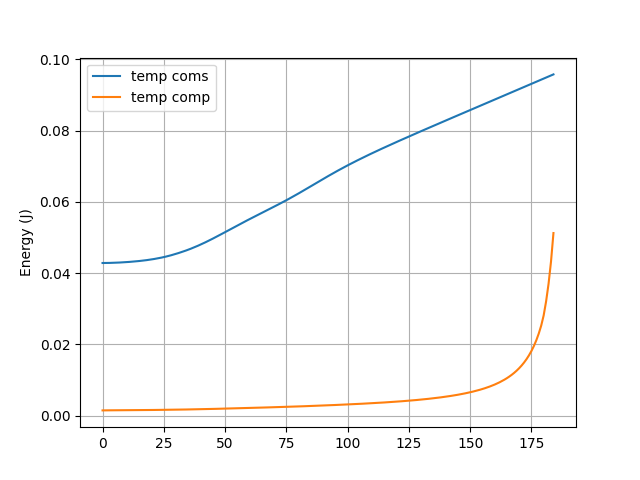
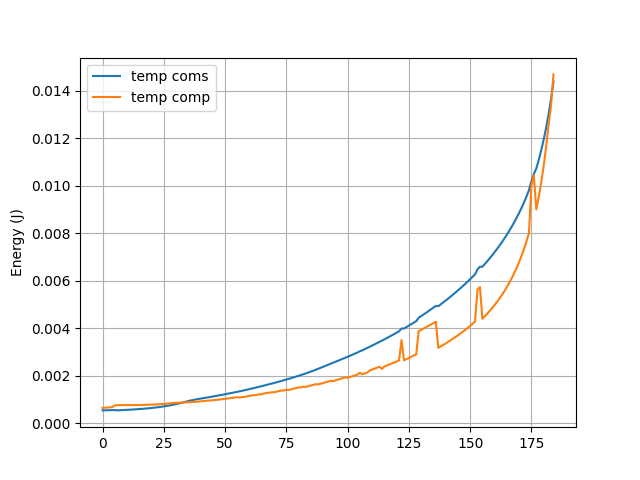
update optimize_network without log, stop condition checking

diff --git a/examples/network_optim.py b/examples/network_optim.py
@@ -143,15 +143,8 @@ class NetworkOptim:
         print(f"eta = {eta}")
 
         return eta
-
-    def initialize_feasible_solution(self): 
-        r"""
-        Method: bisection
-        Args:
-        Return: 
-            eta, T_min
-        """
-        ### Find af, bf efficient 
+    
+    def init_decisions(self): 
         # Solve optimal decision decs
         t_co_uav = self.calc_trans_time(1, power_max)
         t_co_bs = self.calc_trans_time(0, power_max)
@@ -162,11 +155,20 @@ class NetworkOptim:
 
         decs_opt = np.zeros(shape=num_users, dtype=int)
         decs_opt[idx_uav] = 1
+        
+        return decs_opt
 
-        # TODO: check delta_t 
-        # TRACELOG
-        print(f"t_co_uav = {t_co_uav}\nt_co_bs = {t_co_bs}\ndifference = {difference}\ndecs_opt = {decs_opt}")
-        # TRACELOG 
+    def initialize_feasible_solution(self): 
+        r"""
+        Method: bisection
+        Args:
+        Return: 
+            eta, T_min
+        """
+        ### Find af, bf efficient 
+        decs_opt = self.init_decisions()
+
+        # TODO: check delta_t
 
         # Solve optimal eta for current resource allocation (fixed f_max, p_max, decs)
         t_cp = self.calc_comp_time(1, freq_max)
@@ -201,10 +203,6 @@ class NetworkOptim:
             iter += 1
         
         print(f"initialize_feasible_solution eta = {eta_opt}, tau = {tau}")  
-        # LOGTRACE
-        t_total = self.calc_total_time(eta_opt, freq_max, decs_opt, power_max)
-        print(f"t_total = {t_total}")
-        ## LOGTRACE
         return tau, decs_opt
 
     def solve_freqs_powers(self, eta, decs, tau): 
@@ -240,7 +238,7 @@ class NetworkOptim:
         print(f"opt_freqs = {opt_freqs}\nopt_powers = {opt_powers}")
         return opt_freqs, opt_powers
 
-    def optimize_network(self): 
+    def optimize_network(self, tau, ground=0): 
         r""" Solve the relay-node selection and resource allocation problem
         Args: 
         Return: 
@@ -249,18 +247,14 @@ class NetworkOptim:
         # Initialize a feasible solution 
         freqs = np.ones(num_users) * freq_max
         powers = np.ones(num_users) * power_max
-        decs = np.zeros(num_users) # decs = np.random.randint(low=0, high=2, size=num_users) # random initial decisions
+        decs = self.init_decisions()
         eta = 0.01
         
         obj_prev = self.calc_total_energy(eta, freqs, decs, powers).sum()
         print(f"obj_prev = {obj_prev}")
 
         # Repeat
-        iter = 0 
-        t_min, decs = self.initialize_feasible_solution() # eta = 0.317, t_min = 66.823
-        tau = int(1.3 * t_min) # > t_min (= t_min + const) e.g t_min + t_min/10 TODO 
-        print(f"optimize_network_tau = {tau}")
-
+        iter = 0
         while 1: 
             # Tighten the bound of eta 
             eta_min, eta_max = self.find_bound_eta(freqs, decs, powers, tau)
@@ -275,35 +269,38 @@ class NetworkOptim:
                 eta = eta_min 
 
             # Solve powers p, freqs f and apply heursitic method for choosing decisions x 
-            decs = np.ones(shape=num_users, dtype=int) # check with all connecting to uav 
+            
+            # check with all connecting to uav
+            decs = np.ones(shape=num_users, dtype=int)  
             uav_freqs, uav_powers = self.solve_freqs_powers(eta, decs, tau)
             uav_ene = self.calc_total_energy(eta, uav_freqs, decs, uav_powers)
             print(f"uav_ene = {uav_ene}")
 
-            decs = np.zeros(shape=num_users, dtype=int) # check with all connecting to bs 
+            # check with all connecting to bs
+            decs = np.zeros(shape=num_users, dtype=int)
             bs_freqs, bs_powers = self.solve_freqs_powers(eta, decs, tau)
             bs_ene = self.calc_total_energy(eta, bs_freqs, decs, bs_powers)
             print(f"bs_ene = {bs_ene}")
-
+            
+            # find the better decision
             difference = uav_ene - bs_ene
             print(f"difference = {difference}")
             # https://stackoverflow.com/questions/34226400/find-the-index-of-the-k-smallest-values-of-a-numpy-array
             idx = np.argpartition(difference, max_uav)[:max_uav]
             idx_uav = idx[np.where(difference[idx] < 0)]
             
+            # update decisions 
             decs = np.zeros(num_users, dtype=int)
             decs[idx_uav] = 1 # (N, )
 
+            # update powers, freqs corresponding to the current optimal decision 
             powers = decs * uav_powers + (1 - decs) * bs_powers
             freqs = decs * uav_freqs + (1 - decs) * bs_freqs
 
-            # LOG TRACE
-            t_total = self.calc_total_time(eta, freqs, decs, powers)
-            print(f"t_total = {t_total}")
-
             # Check stop condition
             obj = self.calc_total_energy(eta, freqs, decs, powers).sum()
-            print(f"optimize_network_iter = {iter} obj = {obj}")
+            print(f"optimize_network iter = {iter} obj = {obj}")
+            
             print(f"eta = {eta}")
             print(f"decs = {decs}")
             print(f"freqs = {freqs}")
@@ -315,6 +312,33 @@ class NetworkOptim:
 
             obj_prev = obj
             iter += 1 
+        
+        # Finishing 
+        num_lrounds = v * math.log2(1/eta)
+        num_grounds = self.an / (1 - eta)
+
+        # update optimal result for class 
+        self.eta = eta 
+        self.freqs = freqs
+        self.powers = powers 
+        self.decs = decs
+        
+        # calculate time, energy consumption at the current iteration 
+        t_co = self.calc_trans_time(self.decs, self.powers).sum()
+        e_co = self.calc_trans_energy(self.decs, self.powers).sum()
+        
+        t_cp = self.calc_comp_time(num_lrounds, self.freqs).sum()   
+        e_cp = self.calc_comp_energy(num_lrounds, self.freqs).sum()
+
+        print("At round {} average t_co: {} average t_cp: {}".format(ground, t_co/num_users, t_cp/num_users))
+        print("At round {} e_co: {} e_cp: {}".format(ground, e_co, e_cp))
+        print("At round {} eta: {}".format(ground, eta))  
+        print("At round {} a_n: {}".format(ground, self.an))
+
+        # update a_n for calculating the next global iteration  
+        self.update_an(ground=ground)
+        
+        return self.an, num_lrounds, num_grounds # (i, n, a_n)
 
         # Stop 
         return (eta, freqs, decs, powers)

diff --git a/examples/optimization.py b/examples/optimization.py
@@ -7,18 +7,18 @@ class NewtonOptim:
         self.kappa = kappa * (norm_factor**3)
         self.tau = tau 
         self.A = np.array([self.a, self.c]) 
-        print(f"a = {self.a}\tb = {self.b}\tc = {self.c}\tkappa = {self.kappa}\ttau = {self.tau}")
+        # print(f"a = {self.a}\tb = {self.b}\tc = {self.c}\tkappa = {self.kappa}\ttau = {self.tau}")
          
     def objective(self, x): 
         z, t = x[0], x[1]
         f0 = self.a/self.b * z * (np.exp(1/z) - 1) + self.kappa * self.c / (t**2)
-        print(f"objective x = {x}\tf0 = {f0}")
+        # print(f"objective x = {x}\tf0 = {f0}")
 
         return f0 
 
     def eq_constraints(self, x): 
         fi = np.dot(self.A, x) - self.tau 
-        print(f"eq_constraints = {fi}")
+        # print(f"eq_constraints = {fi}")
 
         return fi 
 
@@ -28,7 +28,7 @@ class NewtonOptim:
                         [0, 6 * self.kappa * self.c / (t**4), self.c], 
                         [self.a, self.c, 0]])
 
-        print(f"hessian_dual x = {x}\nhess = {hess}")
+        # print(f"hessian_dual x = {x}\nhess = {hess}")
         return hess 
 
     def hessian(self, x): 
@@ -36,7 +36,7 @@ class NewtonOptim:
         hess = np.array([[self.a/self.b * np.exp(1/z) / (z**3), 0],
                         [0, 6 * self.kappa * self.c / (t**4)]])
         
-        print(f"hessian x = {x}\nhess = {hess}")
+        # print(f"hessian x = {x}\nhess = {hess}")
         return hess 
 
     def gradient(self, x): 
@@ -53,23 +53,23 @@ class NewtonOptim:
         r_pri = np.array([self.eq_constraints(x)]) # (1, )
         r = np.concatenate((r_dual, r_pri), axis=0)
 
-        print(f"r = {r}")
+        # print(f"r = {r}")
         return r 
 
     def backtracking_line_search(self, x, v, dir_x, dir_v, alpha=0.01, beta=0.8):
         step_size = 1
 
-        print(f"backtracking_line_search x = {x}\tdir_x = {dir_x}")
+        # print(f"backtracking_line_search x = {x}\tdir_x = {dir_x}")
         r_dual = np.linalg.norm(self.dual_optimality(x, v)) # 2-norm default 
         while 1: 
             r_dual_new = np.linalg.norm(self.dual_optimality(x + step_size * dir_x, v + step_size * dir_v)) # 2-norm default 
-            print(f"r_dual_new = {r_dual_new} r_dual = {r_dual}")
+            # print(f"r_dual_new = {r_dual_new} r_dual = {r_dual}")
             if r_dual_new <= (1 - alpha * step_size) * r_dual:
-                print("backtracking_line_search terminate!")
+                # print("backtracking_line_search terminate!")
                 break 
             step_size = step_size * beta 
             
-        print(f"backtracking_line_search step_size = {step_size}")
+        # print(f"backtracking_line_search step_size = {step_size}")
         return step_size
 
     def newton_method(self):
@@ -94,17 +94,17 @@ class NewtonOptim:
             # update primal, dual variable 
             x = x + step_size * dir_x
             v = v + step_size * dir_v 
-            print(f"iter = {iter} x = {x} dir_x = {dir_x}")
-            print(f"iter = {iter} v = {v} dir_v = {dir_v}")
+            # print(f"iter = {iter} x = {x} dir_x = {dir_x}")
+            # print(f"iter = {iter} v = {v} dir_v = {dir_v}")
 
             # check stopping condition
             equality_satisfied = np.allclose(self.eq_constraints(x), 0, atol=1e-5) 
             norm_residual = np.linalg.norm(self.dual_optimality(x, v))
 
-            print(f"equality_satisfied = {equality_satisfied}\tnorm_residual = {norm_residual}")
+            # print(f"equality_satisfied = {equality_satisfied}\tnorm_residual = {norm_residual}")
 
             if equality_satisfied and norm_residual <= acc: 
-                print(f"iter = {iter} converged! ({x[0]}, {x[1]})")
+                # print(f"iter = {iter} converged! ({x[0]}, {x[1]})")
                 break 
         
         return x[0], x[1]

diff --git a/examples/system_model.py b/examples/system_model.py
@@ -38,12 +38,13 @@ class SystemModel:
 
         tau, t0 = 40, 0.2
         print(f"system_model train() tau = {tau}\tt0 = {t0}")
-        decs = np.random.randint(low=0, high=2, size=10)
+        # decs = np.random.randint(low=0, high=2, size=10)
 
         iter = 0 # TODO: printing only 
         while 1: 
             print(f"Round {iter}\n-------------------------------") 
-            a_n, num_lrounds, num_grounds = self.net_optim.optimize_network_fake(tau, decs, ground=iter)
+            # a_n, num_lrounds, num_grounds = self.net_optim.optimize_network_fake(tau, decs, ground=iter)
+            a_n, num_lrounds, num_grounds = self.net_optim.optimize_network(tau, ground=iter)
             print("At round {} local rounds: {}".format(iter, num_lrounds))
             print("At round {} global rounds: {}".format(iter, num_grounds))
             print("At round {} tau: {}".format(iter, tau))

diff --git a/examples/network_params.py b/examples/network_params.py
@@ -10,7 +10,7 @@ delta_lr = 5*1e-3 # TODO Learning rate of local surrogate function
 gamma_cv = 3 # strongly convex constant of the loss function
 
 k_switch = 1e-28 # switch capacity, depends on chip's architecture 
-C_n = 1e4 # TODO: testback # number of cpu cycles per sample 
+C_n = 1e3 # TODO: testback # number of cpu cycles per sample 
 # D_n = 100 # data size, number of samples, varies  
 freq_max = 2 * 1e9 # 2GHz -> Hz, maximum cpu computation frequency 
 

diff --git a/examples/network_utils.py b/examples/network_utils.py
@@ -29,7 +29,7 @@ def solve_bound_eta(af, bf, tau):
 
         eta_min = np.exp(x_min)
         eta_max = np.exp(x_max)
-        # print(f"solve_bound_eta eta_min = {eta_min}\teta_max = {eta_max}")
+        print(f"solve_bound_eta eta_min = {eta_min}\teta_max = {eta_max}")
 
         return eta_min, eta_max
 
